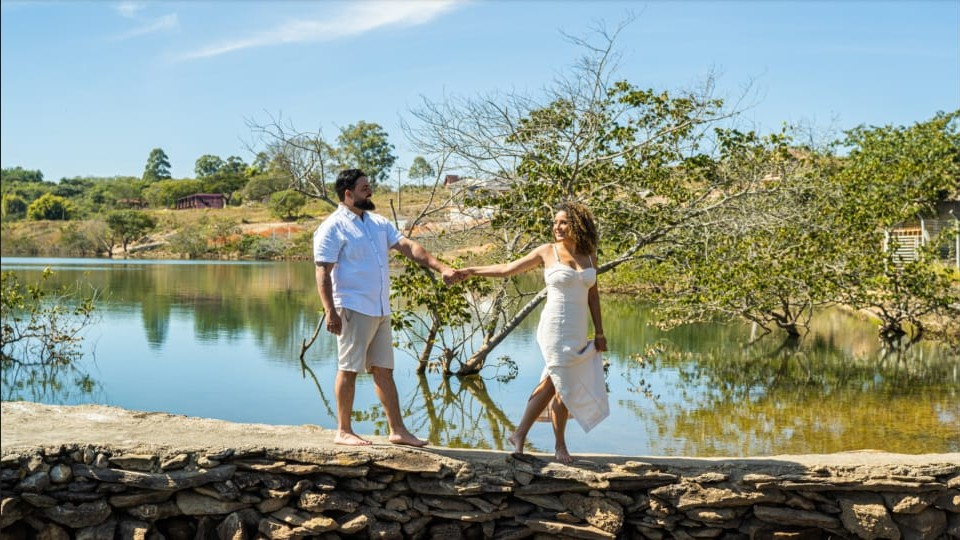
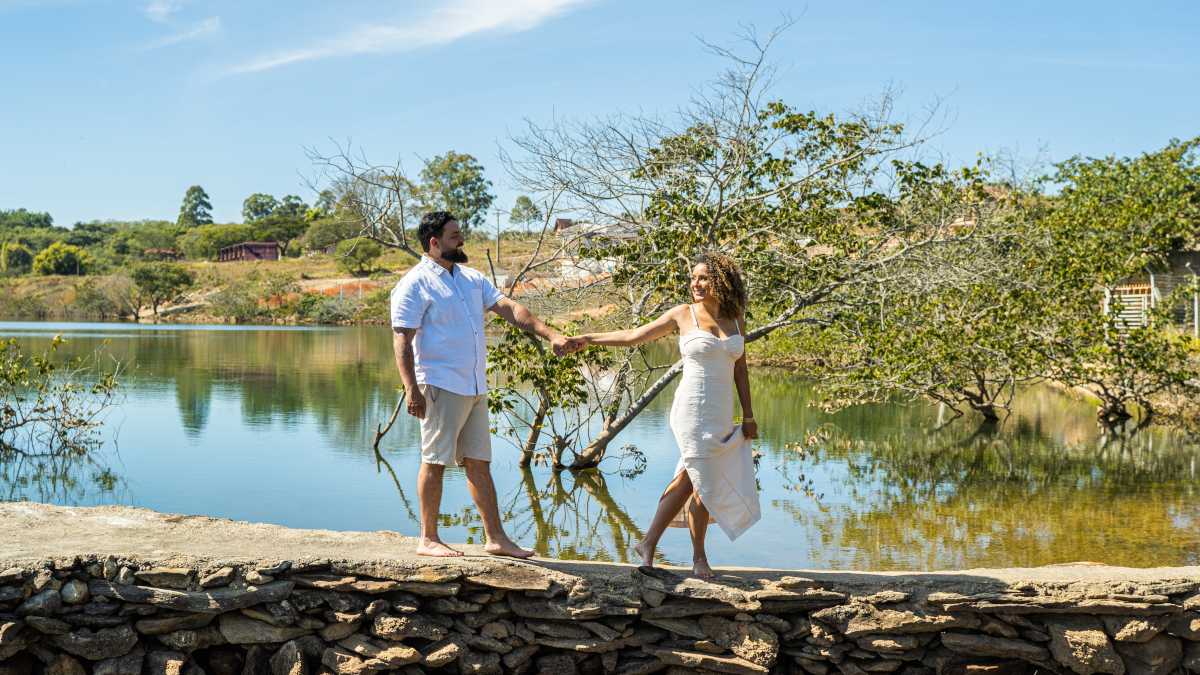
add imagens

diff --git a/style.css b/style.css
@@ -17,11 +17,13 @@
 *{
     margin: 0px;
     padding: 0px;
+    overflow: hidden;
 }
 
 body{
-    width: 100vw;
-    height: 100vh;
+    display: flex;
+    flex-direction: column;
+    min-height: 100vh;
 }
 
 header{
@@ -43,14 +45,13 @@ header h1{
 }
 
 header p{
-    padding: 10pxpx;
     font-size: 1.3em;
 }
 
 header nav{
     text-align: left;
-    padding: 2px;
-    font-size: 1.1em;
+    padding: 5px;
+    font-size: 1em;
     display: block;
 }
 
@@ -69,53 +70,42 @@ header nav a:hover{
 main{
     min-width: 280px;
     max-width: 800px;
-    min-height: 64vh;
+    min-height: 70vh;
     max-height: 100vh;
     text-align: center;
-    align-items: center;
+    margin: auto;
+    flex: 1;
 }
 
 .bloco{
-    margin: 5px;
     padding: 10px;
     background-color: var(--cor3);
-    width: 80vw;
+    width: 70vw;
     max-height: 73vh;
 }
 
-img{
+.images img{
+    padding: 5px;
     min-height: 100px;
-    max-height: 400px;
+    max-height: 330px;
     background-position: bottom bottom;
     background-repeat: no-repeat;
     background-size: contain;
 }
 
-#date{
-    display: flex;
-    align-items: center;
-    gap: 20px;
-    padding: 20px;
-}
-
-#date img{
-    width: 100%;
-    min-width: 60%;
-    height: auto;
-}
-
 .texto{
+    padding: 5px;
     text-align: justify;
     flex-grow: 1;
 }
 
 .texto p{
-    width: auto;
-    max-width: 100%;
+    text-align: center;
+    max-width: 60vw;
 }
 
 footer{
-    height: 3vh;
+    min-height: 2.5vh;
     text-align: center;
     padding: 10px;
     background-color: var(--cor1);

diff --git a/casamento.html b/casamento.html
@@ -22,15 +22,13 @@
     <main>
         <div class="bloco">
             <h1>O Casamento</h1>
-            <div id="date">
-                <picture>
-                    <img src="assets/images/savethedate.png" alt="salve a data">
-                </picture>
-                <div class="texto">
-                    <p>
-                        O casamento acontecerá no dia 27/09/2025 às 16:00 horas na Igreja Nossa Senhora de Nazaré
-                    </p>
-                </div>
+            <div class="texto">
+                <p>
+                    O casamento acontecerá no dia 27/09/2025 às 16:00 horas na Igreja Nossa Senhora de Nazaré
+                </p>
+            </div>
+            <div class="images">
+                <img src="assets/images/casamento.jpg" alt="casal em pé, abraçados">
             </div>
         </div>
         

diff --git a/index.html b/index.html
@@ -9,7 +9,7 @@
         body{
             background-color: #f8caea;
             background-image: url(assets/images/background.jpg);
-            background-position: center top;
+            background-position: center center;
             background-repeat: no-repeat;
             background-size: cover;
         }  
@@ -28,7 +28,9 @@
         </nav>
     </header>
     <main>
+        <div id="home">
 
+        </div>
     </main>
     <footer>
         <p>Desenvolvido por <a href="https://github.com/camilaangelico">Camila Angélico</a></p>

diff --git a/presentes.html b/presentes.html
@@ -26,6 +26,9 @@
                     A lista de presentes está disponível na Loja Rogério Confecções e Brinquedos!
                 </p>
             </div>
+            <div class="images">
+                <img src="assets/images/presentes.jpg" alt="Casal sentado se olhando">
+            </div>
         </div>
 
     </main>

diff --git a/casal.html b/casal.html
@@ -27,7 +27,7 @@
                 </p>
             </div>
             <div class="images">
-            <img src="assets/images/casal.jpg" alt="casal em pé, abraçados">
+                <img src="assets/images/casal.jpg" alt="casal em pé, abraçados">
             </div>
         </div>
     </main>

diff --git a/fotos.html b/fotos.html
@@ -19,7 +19,9 @@
         </nav>
     </header>
     <main>
-        <h1>Fotos</h1>
+        <div class="bloco">
+            <h1>Fotos</h1>
+        </div>
     </main>
     <footer>
         <p>Desenvolvido por <a href="https://github.com/camilaangelico">Camila Angélico</a></p>
